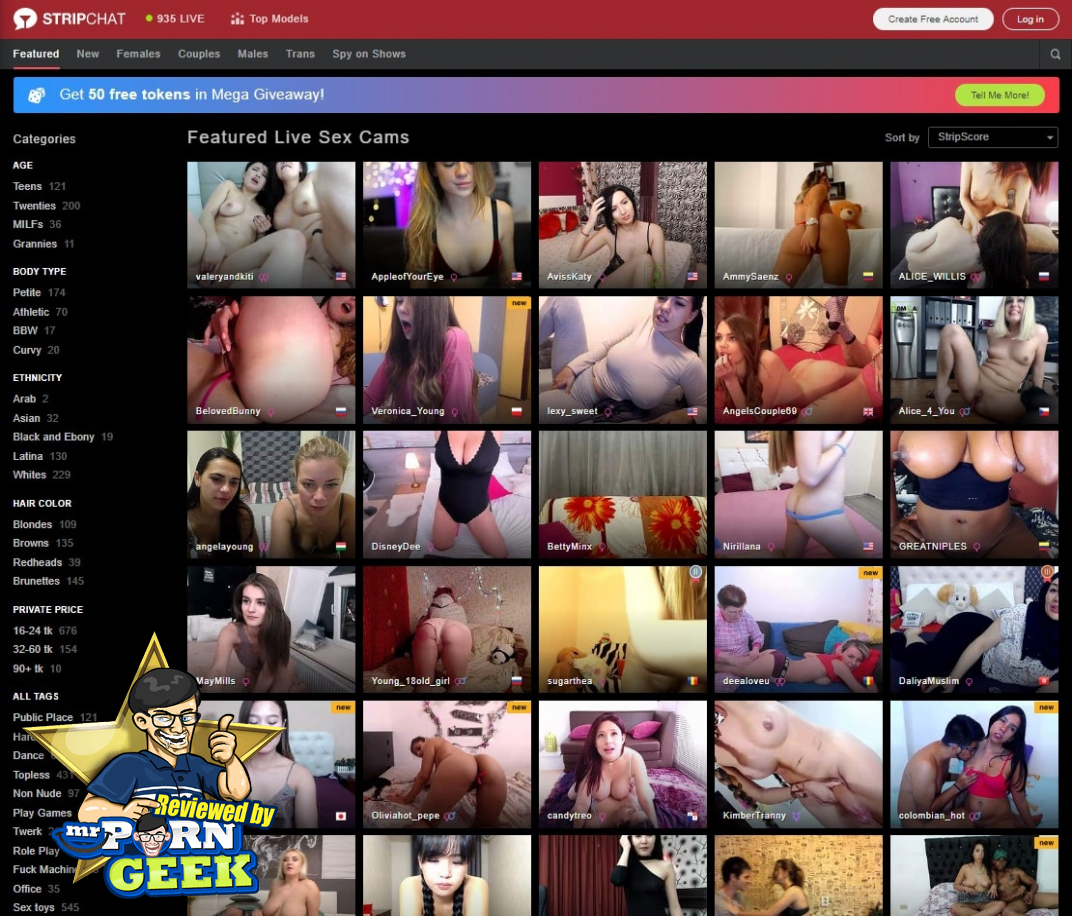
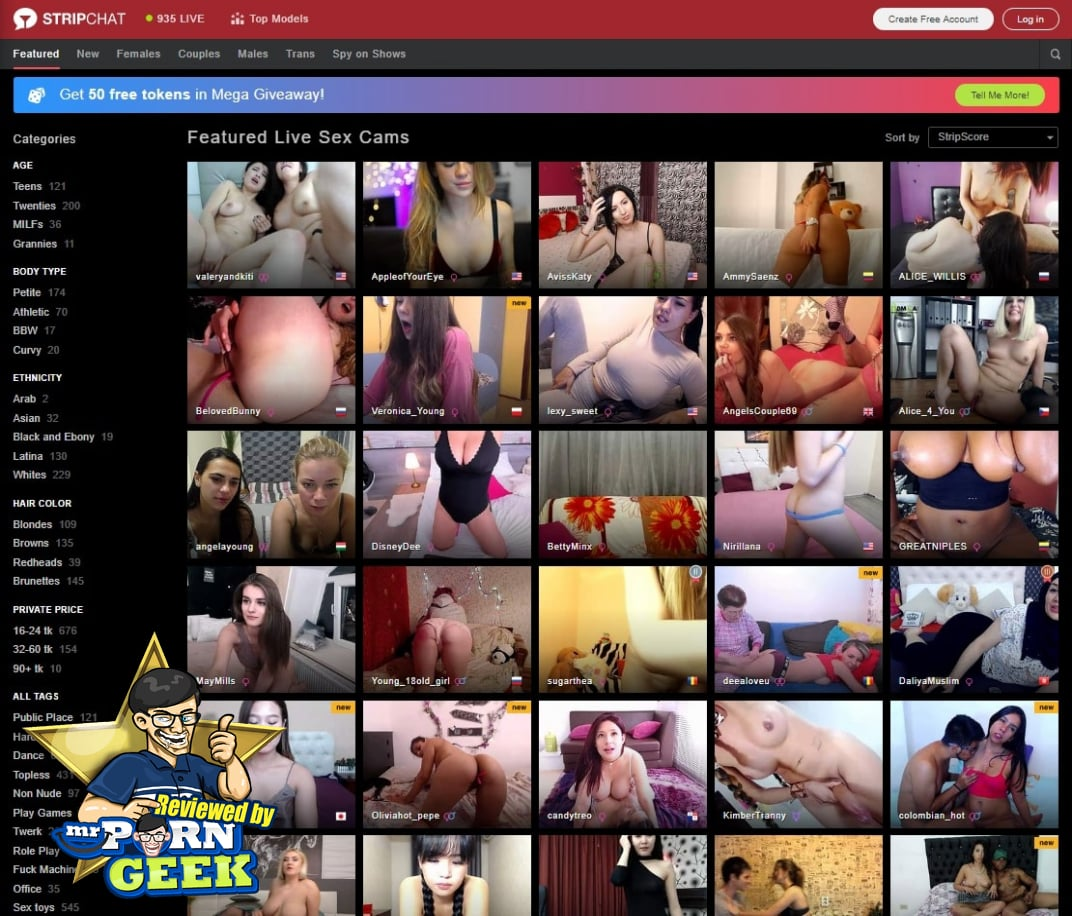
Fixed black border in resized image

Changed region(s): [[0.0616, 0.8559, 0.2771, 0.9782], [0.1231, 0.7642, 0.2463, 0.8253], [0.1231, 0.7031, 0.1539, 0.7336]]

diff --git a/main.py b/main.py
@@ -75,18 +75,62 @@ def resize_image(image, target_size, crop=False):
     target_width, target_height = target_size
     
     if crop:
-        # Crop to exact size
-        image.thumbnail((target_width, target_height), Image.Resampling.LANCZOS)
-        # Center crop
-        left = (image.width - target_width) // 2
-        top = (image.height - target_height) // 2
+        # For cropping, first resize to cover the target area, then crop
+        # Calculate aspect ratios
+        target_ratio = target_width / target_height
+        image_ratio = image.width / image.height
+        
+        if image_ratio > target_ratio:
+            # Image is wider than target, resize by height first
+            new_height = target_height
+            new_width = int(image.width * (target_height / image.height))
+        else:
+            # Image is taller than target, resize by width first
+            new_width = target_width
+            new_height = int(image.height * (target_width / image.width))
+        
+        # Resize image to cover target area
+        resized = image.resize((new_width, new_height), Image.Resampling.LANCZOS)
+        
+        # Center crop to exact target size
+        left = (new_width - target_width) // 2
+        top = (new_height - target_height) // 2
         right = left + target_width
         bottom = top + target_height
-        return image.crop((left, top, right, bottom))
+        
+        return resized.crop((left, top, right, bottom))
     else:
-        # Resize maintaining aspect ratio
-        image.thumbnail((target_width, target_height), Image.Resampling.LANCZOS)
-        return image
+        # For non-cropping, resize maintaining aspect ratio
+        # Calculate new size that fits within target dimensions
+        image_ratio = image.width / image.height
+        target_ratio = target_width / target_height
+        
+        if image_ratio > target_ratio:
+            # Image is wider, fit by width
+            new_width = target_width
+            new_height = int(target_width / image_ratio)
+        else:
+            # Image is taller, fit by height
+            new_height = target_height
+            new_width = int(target_height * image_ratio)
+        
+        # Resize image
+        resized = image.resize((new_width, new_height), Image.Resampling.LANCZOS)
+        
+        # Create new image with target background (white or transparent)
+        if resized.mode in ('RGBA', 'LA'):
+            # For images with transparency, use transparent background
+            new_image = Image.new('RGBA', (target_width, target_height), (0, 0, 0, 0))
+        else:
+            # For opaque images, use white background
+            new_image = Image.new('RGB', (target_width, target_height), (255, 255, 255))
+        
+        # Paste resized image in center
+        paste_x = (target_width - new_width) // 2
+        paste_y = (target_height - new_height) // 2
+        new_image.paste(resized, (paste_x, paste_y))
+        
+        return new_image
 
 def create_wordpress_sizes(original_image_path, processed_image_path, base_filename, image_type=None):
     """
